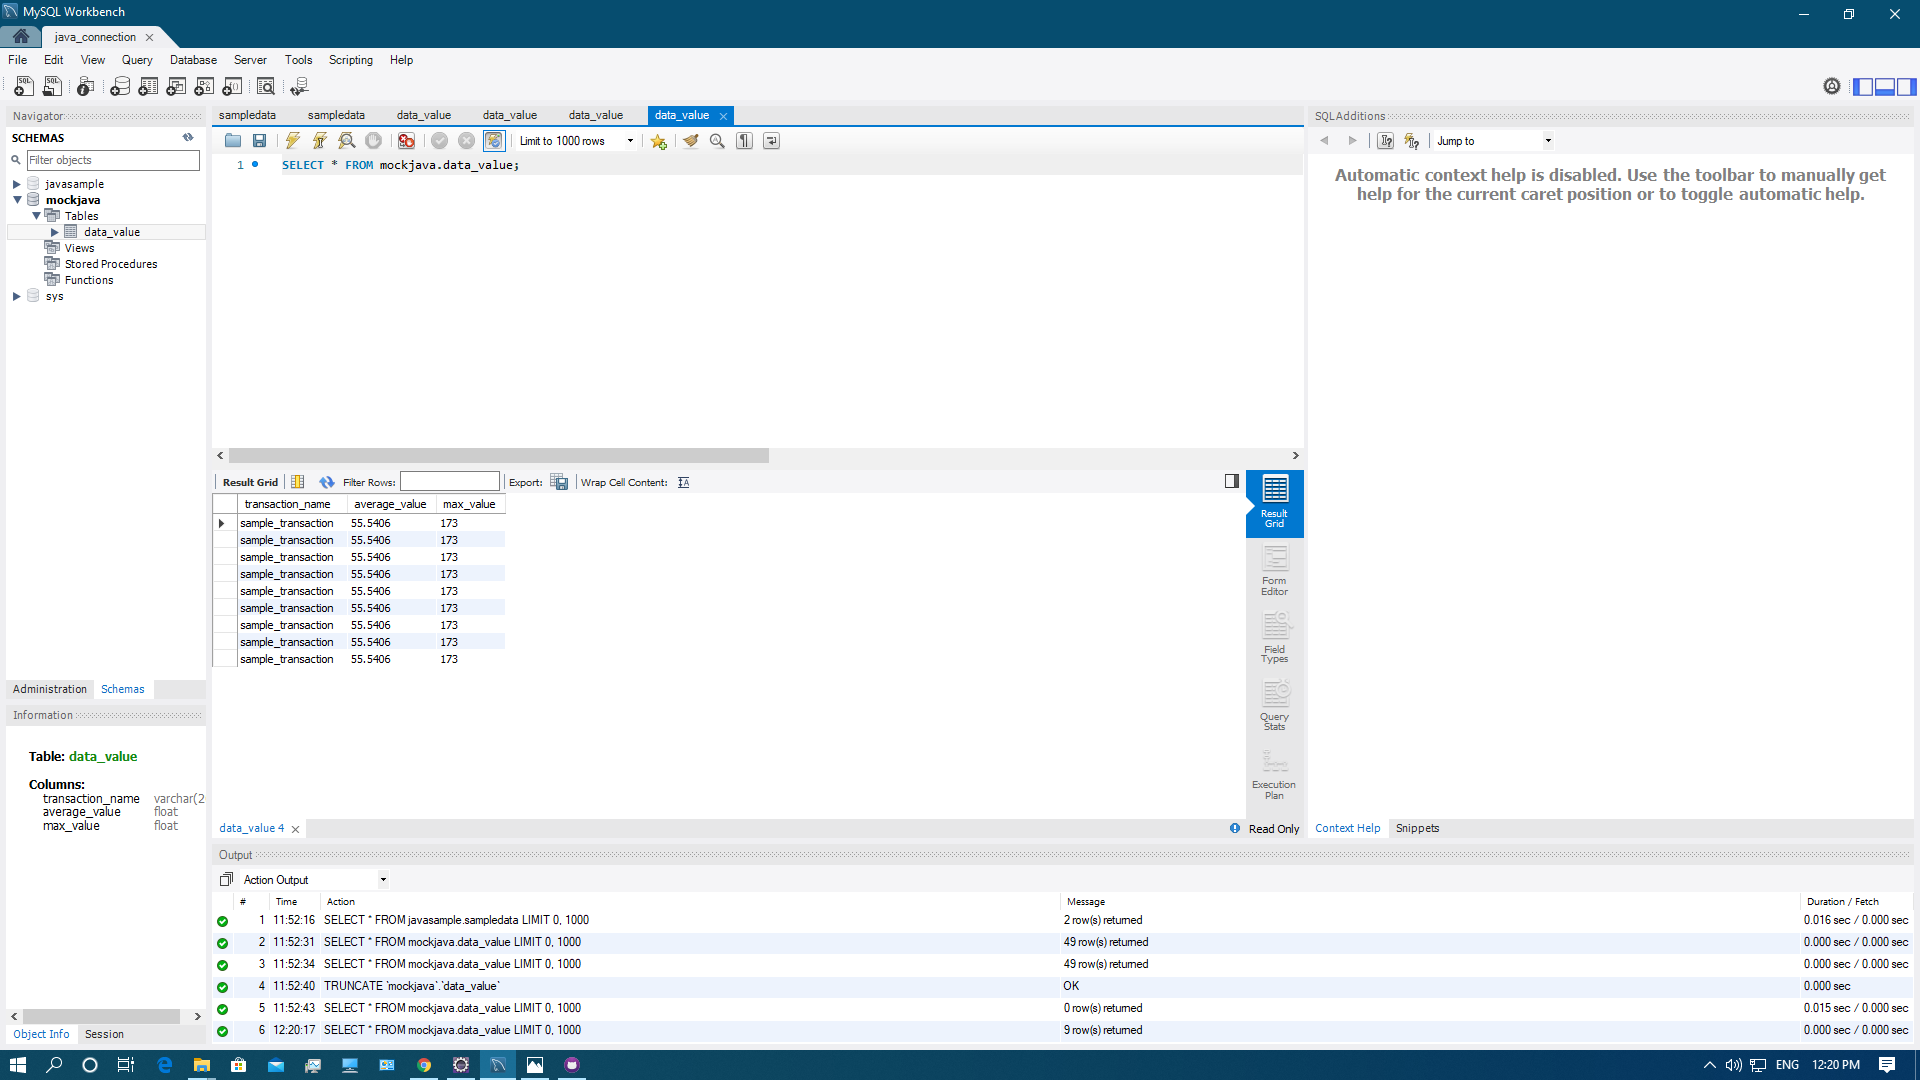
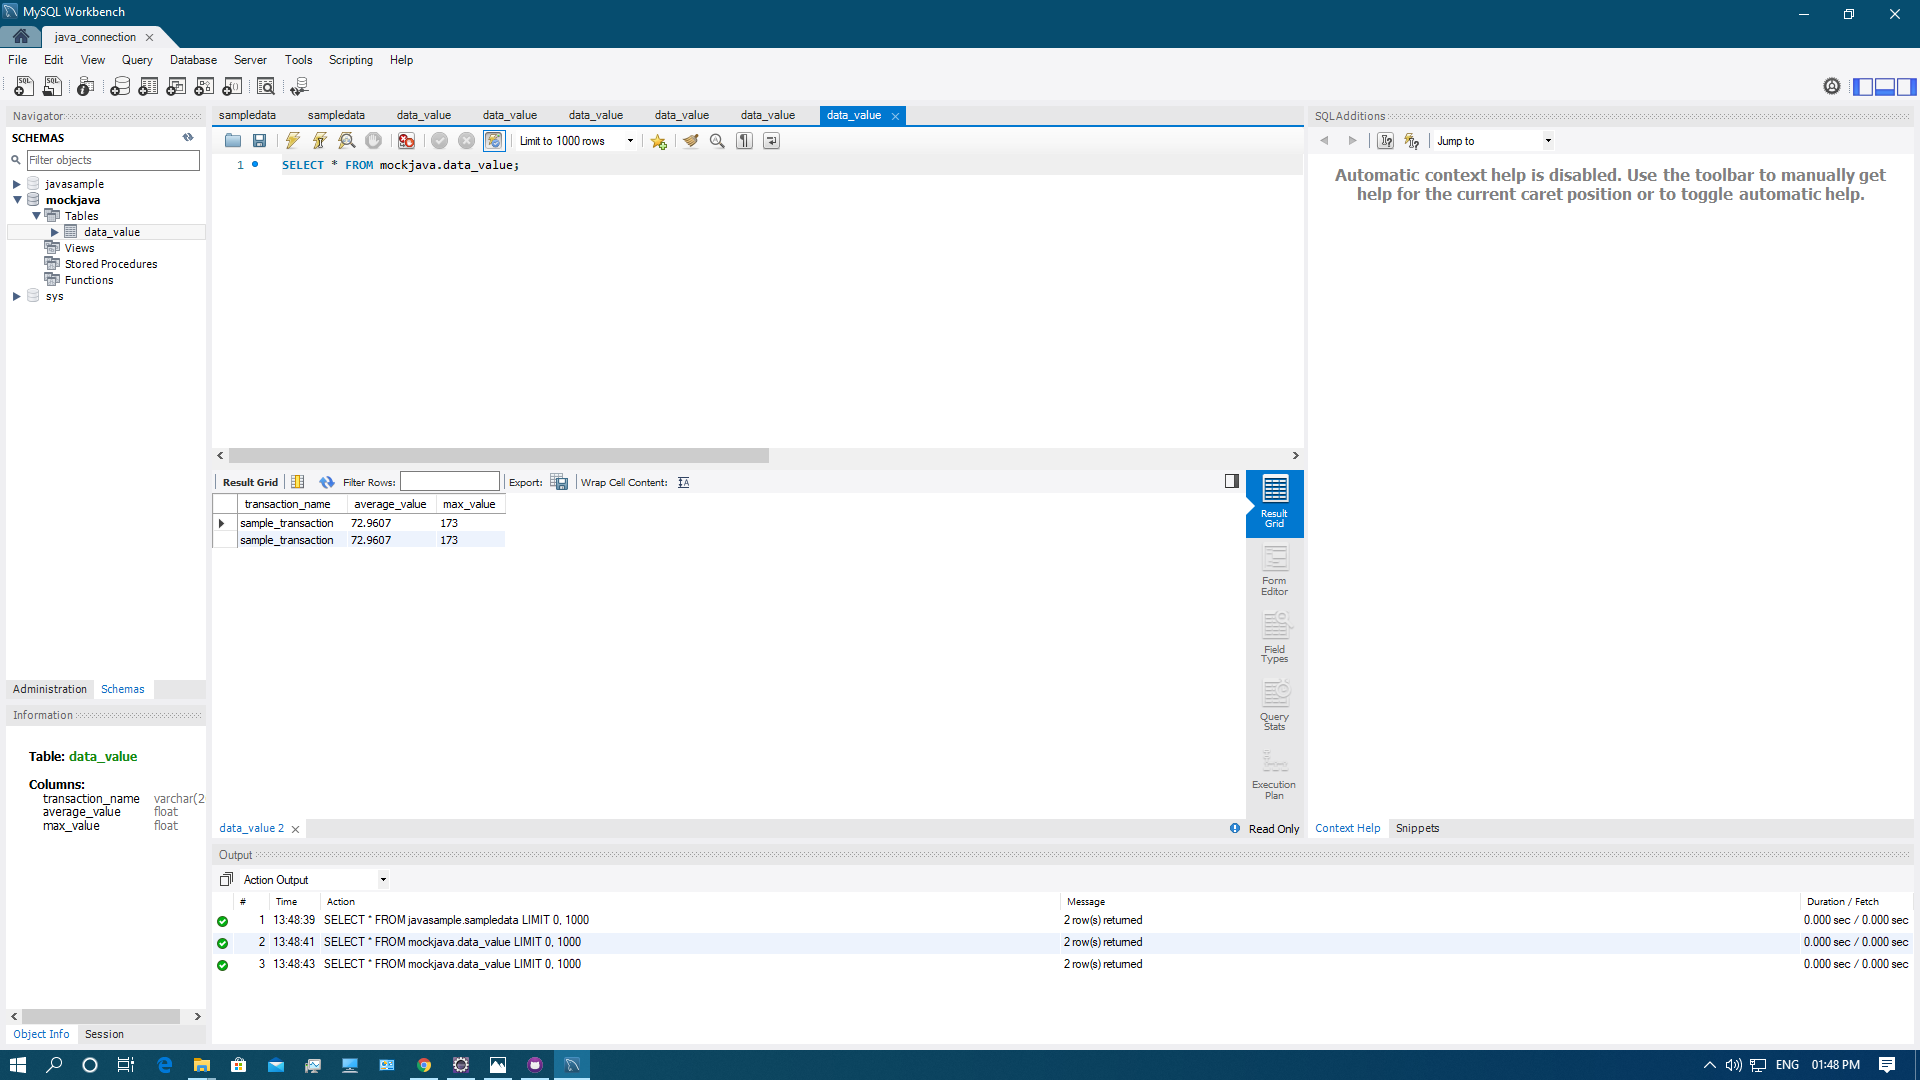
mock project update

diff --git a/src/mock_test/Mock_test.java b/src/mock_test/Mock_test.java
@@ -9,13 +9,11 @@ public class Mock_test {
 	static String hint;
 	public static void main(String[] args) throws IOException {
 		int count = 0;
+		float total_value=0,average_value;
 		JSONObject obj1 = new JSONObject();
 		JSONObject obj2 = new JSONObject();
 		FileWriter fileWriter = new FileWriter("cpu_data.json");
-//		pushing the data fetched from db to HMTL file
 		PrintWriter printWriter = new PrintWriter("htmloutput.html");
-
-//		writing the data to files - Starting of table before looping in the table
 		printWriter.println("<table border=1>");
 		printWriter.println("<caption>MAX AND AVERAGE VALUES OF TRANSACTION CPU DATA</caption>");
 		printWriter.println("<tr><th>TRANSACTION NAME</th><th>AVERAGE CPU TIME</th><th>MAXIMUM CPU TIME</th></tr>");
@@ -29,12 +27,11 @@ public class Mock_test {
 			BufferedReader br = new BufferedReader(new FileReader(file));
 			String st;
 			float value;
-			float average_value = 0,max_value=0;
+			float max_value=0;
 			while ((st = br.readLine()) != null)
 			{
-
 				String[] array = st.split(" ");
-	
+				
 				if (array[8].length()>0)
 				{
 					if (array[14].length()>0)
@@ -57,7 +54,7 @@ public class Mock_test {
 						value= Float.parseFloat(array[17]);;
 					}	
 				}
-				average_value = (average_value+value)/2;
+				total_value = total_value+value;
 				if (value > max_value)
 				{
 					max_value = value;
@@ -67,6 +64,7 @@ public class Mock_test {
 				//System.out.print(hint);
 				obj2.put(hint, value);
 			}
+			average_value=total_value/count;
 			obj1.put("average", average_value);
 			obj1.put("max", max_value);
 			obj1.put("values",obj2);
